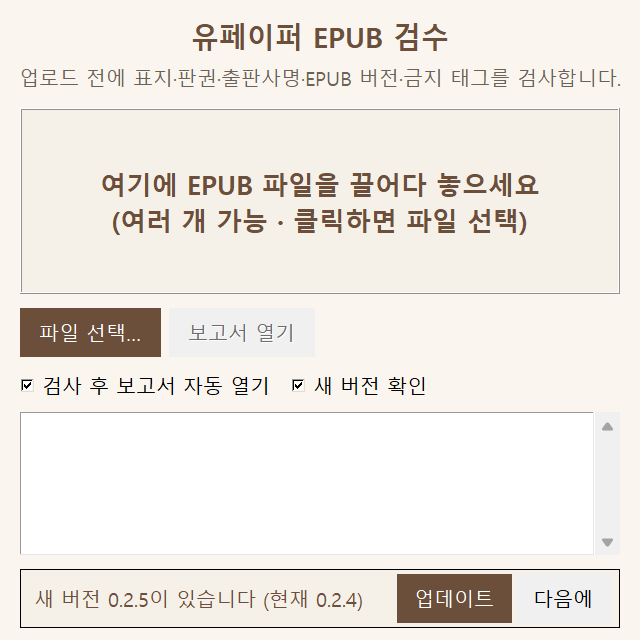
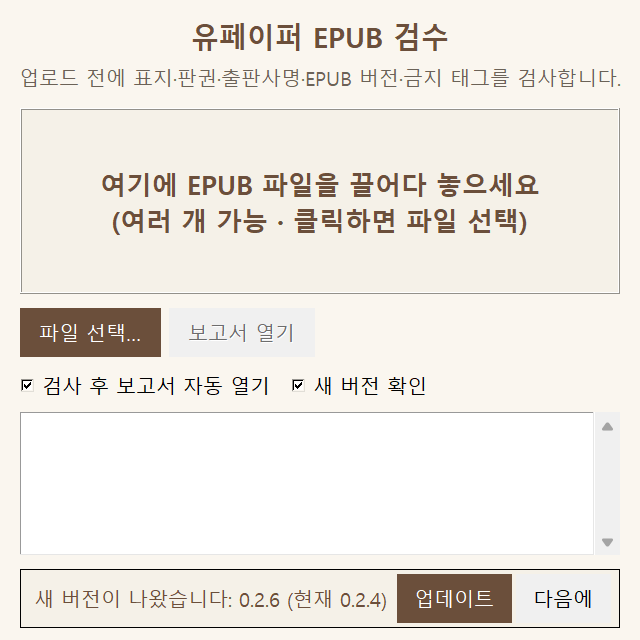
v0.2.7 — 새 버전 확인 중 창을 닫으면 죽던 결함 수정, 알림 문구 변경

Changed region(s): [[0.1562, 0.9062, 0.5938, 0.9688]]

diff --git a/tests/test_update_check.py b/tests/test_update_check.py
@@ -189,6 +189,63 @@ class WhenNoticeShowsTest(InlineThreadTest):
                 self.assertIsNone(uc.interpret(dict(OK, latest=latest), "0.2.6"))
 
 
+# ------------------------------------------------------------------ 창을 닫아도 죽지 않기 (v0.2.7)
+class ThreadSafetyTest(unittest.TestCase):
+    def test_the_thread_holds_no_tk_object(self):
+        """작업 스레드가 창을 붙잡으면 안 된다 — 마지막 참조를 쥐고 끝나면 Tk 객체가 메인 스레드 밖에서
+        풀리고 Tcl 이 프로세스를 죽인다."""
+        captured = {}
+
+        class CaptureThread:
+            def __init__(self, target, name=None, daemon=None):
+                captured["target"] = target
+
+            def start(self):
+                pass
+
+        class Root:
+            def after(self, ms, fn):
+                if ms == uc.DELAY_MS:
+                    fn()
+
+        root, on_result = Root(), lambda info, answered: None
+        with mock.patch.object(uc.threading, "Thread", CaptureThread):
+            uc.check_async(root, SLUG, "0.2.7", prefs_mod.Prefs(), on_result, fetcher=lambda s, v: OK, day=DAY)
+        target = captured["target"]
+        held = [c.cell_contents for c in (target.__closure__ or ())] + list(target.__defaults__ or ())
+        self.assertFalse(any(x is root or x is on_result for x in held))
+
+    def test_closing_while_the_request_is_out_does_not_abort_tcl(self):
+        """고치기 전에는 'Tcl_AsyncDelete: async handler deleted by the wrong thread' 로 죽었다(v0.2.6)."""
+        import subprocess
+        with tempfile.TemporaryDirectory() as tmp:
+            script = os.path.join(tmp, "close_while_asking.py")
+            with open(script, "w", encoding="utf-8") as fh:
+                fh.write(CLOSE_WHILE_ASKING.format(root=ROOT, prefs=os.path.join(tmp, "settings.json")))
+            p = subprocess.run([sys.executable, "-W", "ignore", script], capture_output=True, timeout=120)
+        out = (p.stdout + p.stderr).decode("utf-8", "replace")
+        self.assertEqual(p.returncode, 0, out[-800:])
+        self.assertIn("survived", out)
+        self.assertNotIn("Tcl_AsyncDelete", out)
+
+
+CLOSE_WHILE_ASKING = r"""
+import sys, time
+sys.path.insert(0, {root!r})
+from upaper_check import gui
+def slow(slug, version):
+    time.sleep(1.5)          # 창이 닫힐 때 요청이 아직 나가 있다
+    return {{"latest": "9.9.9", "updateAvailable": True, "url": "https://chaekgalpi.co.kr/tools/upaperepub"}}
+for _ in range(3):
+    win = gui.DropWindow(lambda _p: ("", "", True), prefs_path={prefs!r}, fetcher=slow)
+    win.root.after(1700, win.destroy)      # 요청을 보낸 지 0.2초 뒤
+    win.root.mainloop()
+    del win
+    time.sleep(2.0)          # 창이 없는 채로 스레드가 끝난다
+print("survived")
+"""
+
+
 # ------------------------------------------------------------------ 설정 파일
 class SettingsTest(unittest.TestCase):
     def setUp(self):
@@ -251,7 +308,7 @@ class WindowNoticeTest(unittest.TestCase):
         self.win.root.update_idletasks()
         self.assertEqual(self.saved()["update_check_last"], uc.today())
         self.assertTrue(self.win.frm_update.winfo_manager())
-        self.assertEqual(self.win.lbl_update.cget("text"), "새 버전 0.3.0이 있습니다 (현재 0.2.6)")
+        self.assertEqual(self.win.lbl_update.cget("text"), "새 버전이 나왔습니다: 0.3.0 (현재 0.2.6)")
 
     def test_no_answer_records_nothing_and_shows_nothing(self):
         self.win._on_update_result(None, False)

diff --git a/upaper_check/gui.py b/upaper_check/gui.py
@@ -52,6 +52,7 @@ class DropWindow:
         self.last_report = ""
         self._closing = False
         self._update_info: update_check.UpdateInfo | None = None
+        self.root.protocol("WM_DELETE_WINDOW", self.destroy)   # X 버튼도 같은 정리 경로로
         self._build()
         if DND_AVAILABLE:
             self._enable_drop()
@@ -176,7 +177,7 @@ class DropWindow:
         info = self._update_info
         if info is None:
             return
-        self.lbl_update.configure(text=f"새 버전 {info.latest}이 있습니다 (현재 {info.current})")
+        self.lbl_update.configure(text=f"새 버전이 나왔습니다: {info.latest} (현재 {info.current})")
         if not self.frm_update.winfo_manager():
             # 기록 칸보다 먼저 자리를 잡아야 보인다(기록 칸이 남은 공간을 다 차지하므로)
             self.frm_update.pack(fill="x", padx=20, pady=(0, 12), side="bottom", before=self.log)
@@ -210,7 +211,16 @@ class DropWindow:
         self.root.mainloop()
 
     def destroy(self) -> None:
+        """남은 after 예약(새 버전 확인의 0.1초 확인 등)을 지우고 닫는다 — 닫힌 창의 예약이 남아
+        있으면 Tk 가 '없는 명령'이라고 오류를 낸다."""
+        if self._closing:
+            return
         self._closing = True
+        try:
+            for pending in self.root.tk.splitlist(self.root.tk.call("after", "info")):
+                self.root.after_cancel(pending)
+        except tk.TclError:
+            pass
         self.root.destroy()
 
 

diff --git a/upaper_check/__init__.py b/upaper_check/__init__.py
@@ -1,3 +1,3 @@
 """유페이퍼 EPUB 업로드 전 검수 도구."""
 
-__version__ = "0.2.6"
+__version__ = "0.2.7"

diff --git a/CLAUDE.md b/CLAUDE.md
@@ -10,7 +10,8 @@ This file provides guidance to Claude Code when working with code in this reposi
 - 실행: `python upaper_check.py 책.epub [--html] [--json] [--publisher NAME] [--rules JSON] [--epubcheck JAR]`. 인자 없으면 끌어다 놓기 창(`gui.py`, tkinterdnd2). `UPAPER_SELFTEST=1` 로 실행하면 창을 만들었다 닫고 `dnd:available` 여부만 출력한다 — EXE 빌드 후 반드시 이걸로 드롭 모듈이 실렸는지 확인. EXE 는 창 모드(console=False)라 stdout 이 없으므로 `UPAPER_SELFTEST=결과.txt` 처럼 파일 경로를 주면 거기에 쓴다.
 - 창 모드 EXE 에서 `print` 는 조용히 버려진다. 사용자에게 보여야 하는 것은 `cli._windowed()` 분기에서 보고서 열기·메시지 상자로 처리한다.
 - 창 설정은 프로그램 옆 `settings.json`(`prefs.py`, 책갈피 툴 공통 방식). 시험·캡처에서는 `DropWindow(prefs_path=임시경로, check_updates=False 또는 fetcher=가짜)` 로 사용자 설정과 실제 서버를 건드리지 않는다. `selftest()` 는 새 버전을 묻지도 설정을 쓰지도 않는다.
-- 테스트: `python -m unittest discover -s tests -v` (146개). `tests/builders.py` 의 `Book()` 은 기본값이 규정을 지키는 EPUB 이고, **시험할 항목만 바꿔** 조립한다(`Book(publisher="홍길동")`, `Book(cover_image=None)` = 표지 없음, `Book(mimetype_stored=False)` 등). `tests/helpers.py` 의 `BookTest` 를 상속해 `self.check(book, **규칙덮어쓰기)` 로 findings 를 받고 `assertCode`/`assertNoCode`/`assertClean` 로 단언한다. **규칙을 추가·변경하면 그 규칙만 어긋난 책으로 시험을 하나 더 만든다** — 위반을 한 파일에 몰아넣으면 다른 규칙이 망가져도 드러나지 않는다.
+- **새 버전 확인의 작업 스레드는 Tk 객체를 하나도 쥐지 않는다**(v0.2.7). 결과는 dict 에만 담고, Tk 스레드가 `root.after(POLL_MS, poll)` 로 가져가 `on_result` 를 부른다. 스레드가 `root`·창 메서드를 쥐고 `root.after` 를 부르면, 요청 중에 창을 닫았을 때 그 스레드가 마지막 참조를 놓으며 `Tcl_AsyncDelete: async handler deleted by the wrong thread` 로 프로세스가 죽는다(v0.2.6 결함). `DropWindow.destroy` 는 남은 after 예약을 지우고 닫으며, X 버튼(WM_DELETE_WINDOW)도 이 경로를 탄다.
+- 테스트: `python -m unittest discover -s tests -v` (148개). `tests/builders.py` 의 `Book()` 은 기본값이 규정을 지키는 EPUB 이고, **시험할 항목만 바꿔** 조립한다(`Book(publisher="홍길동")`, `Book(cover_image=None)` = 표지 없음, `Book(mimetype_stored=False)` 등). `tests/helpers.py` 의 `BookTest` 를 상속해 `self.check(book, **규칙덮어쓰기)` 로 findings 를 받고 `assertCode`/`assertNoCode`/`assertClean` 로 단언한다. **규칙을 추가·변경하면 그 규칙만 어긋난 책으로 시험을 하나 더 만든다** — 위반을 한 파일에 몰아넣으면 다른 규칙이 망가져도 드러나지 않는다.
 - 실전 기준 파일: 유페이퍼 승인(2026-09-05)된 `D:\my\PDF To Epub\dist\스캔북 컨버터\doc\하늘은 왜 파래요 - microhan.epub` 은 **오류 0 으로 통과해야 한다**(회귀 기준). 규칙을 바꾸면 이 파일로도 돌려 본다.
 
 ## Non-Obvious Rules

diff --git a/docs/change_history.md b/docs/change_history.md
@@ -5,6 +5,23 @@
 
 ---
 
+## v0.2.7 (2026-10-14) — 새 버전 확인 중 창을 닫으면 프로그램이 죽던 결함 수정
+
+### 배경
+- 같은 구조의 책갈피 툴(scan-pdf-split)에서 발견돼 메인 통합 프로젝트가 알려 줬고, 이 도구에서도 재현됐다: 서버 응답을 기다리는 동안(창을 연 뒤 1.5초~최대 5.5초) 창을 닫으면 `Tcl_AsyncDelete: async handler deleted by the wrong thread` 로 프로세스가 종료(코드 3).
+
+### 수정
+- `update_check.check_async` — 작업 스레드는 서버 답을 dict 에만 담고 Tk 객체·콜백을 쥐지 않는다. Tk 스레드가 `root.after(100ms)` 로 답을 가져가 `on_result` 를 부른다(scan-pdf-split v0.1.3 과 같은 방식).
+- `DropWindow.destroy` — 남은 after 예약을 지우고 닫는다. 창의 X 버튼도 같은 경로를 탄다.
+
+### 변경
+- 알림 문구: 「새 버전 {latest}이 있습니다 (현재 {current})」 → 「새 버전이 나왔습니다: {latest} (현재 {current})」 (책갈피 툴 공통). README·`docs/update_notice.png` 갱신.
+
+### 추가
+- 회귀 시험 2개: 작업 스레드가 root·on_result 를 쥐지 않는지, 요청 중에 창을 닫아도 3회 연속 살아남는지(별도 프로세스). 고치기 전 코드에서는 둘 다 실패함을 확인. 총 148개.
+
+---
+
 ## v0.2.6 (2026-10-13) — 「새 버전 확인」 (tool-update-check)
 
 ### 배경

diff --git a/README.md b/README.md
@@ -54,7 +54,7 @@ python upaper_check.py a.epub b.epub --quiet   # 여러 권 요약만
 ### 새 버전 확인
 창을 열 때 새 버전이 있는지 확인하려고 도구 이름과 버전만 책갈피 서버(chaekgalpi.co.kr)에 보냅니다. EPUB 파일은 보내지 않고, 하루 한 번만 확인하며, 설정에서 끌 수 있습니다.
 - 창이 뜨고 1.5초 뒤 한 번 묻습니다. 응답이 없거나 실패하면 아무것도 표시하지 않습니다.
-- 새 버전이 있으면 창 아래에 한 줄로 알립니다: 「새 버전 0.x.y이 있습니다 (현재 0.x.y) · [업데이트] [다음에]」. [업데이트]는 책갈피 툴 페이지를 열고, [다음에]는 그 버전을 다시 알리지 않습니다.
+- 새 버전이 있으면 창 아래에 한 줄로 알립니다: 「새 버전이 나왔습니다: 0.x.y (현재 0.x.y) · [업데이트] [다음에]」. [업데이트]는 책갈피 툴 페이지를 열고, [다음에]는 그 버전을 다시 알리지 않습니다.
 - 창의 「새 버전 확인」 체크를 끄면 묻지 않습니다. 설정은 프로그램 옆 `settings.json` 에 저장됩니다.
 - 새 버전을 자동으로 내려받거나 바꾸지 않습니다.
 - 명령줄 실행과 EXE 아이콘 위 끌어다 놓기(창 없이 검사)는 확인하지 않습니다.
